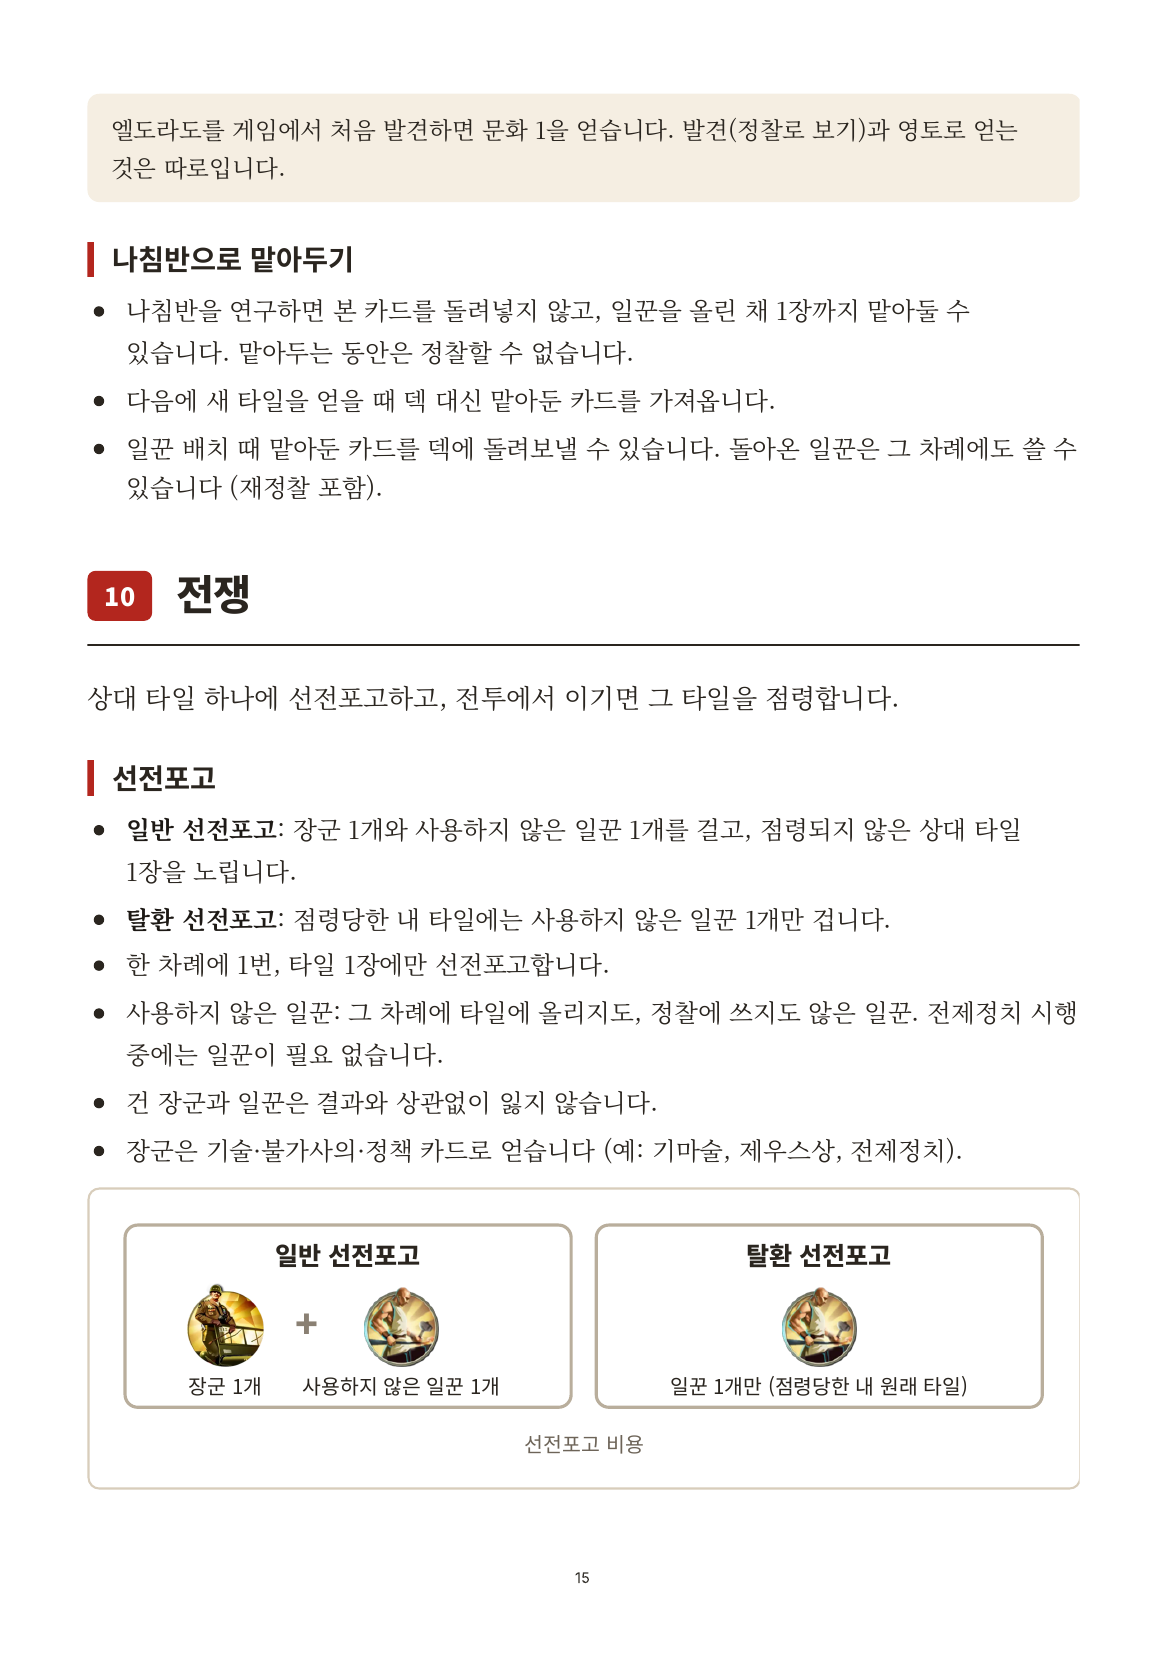
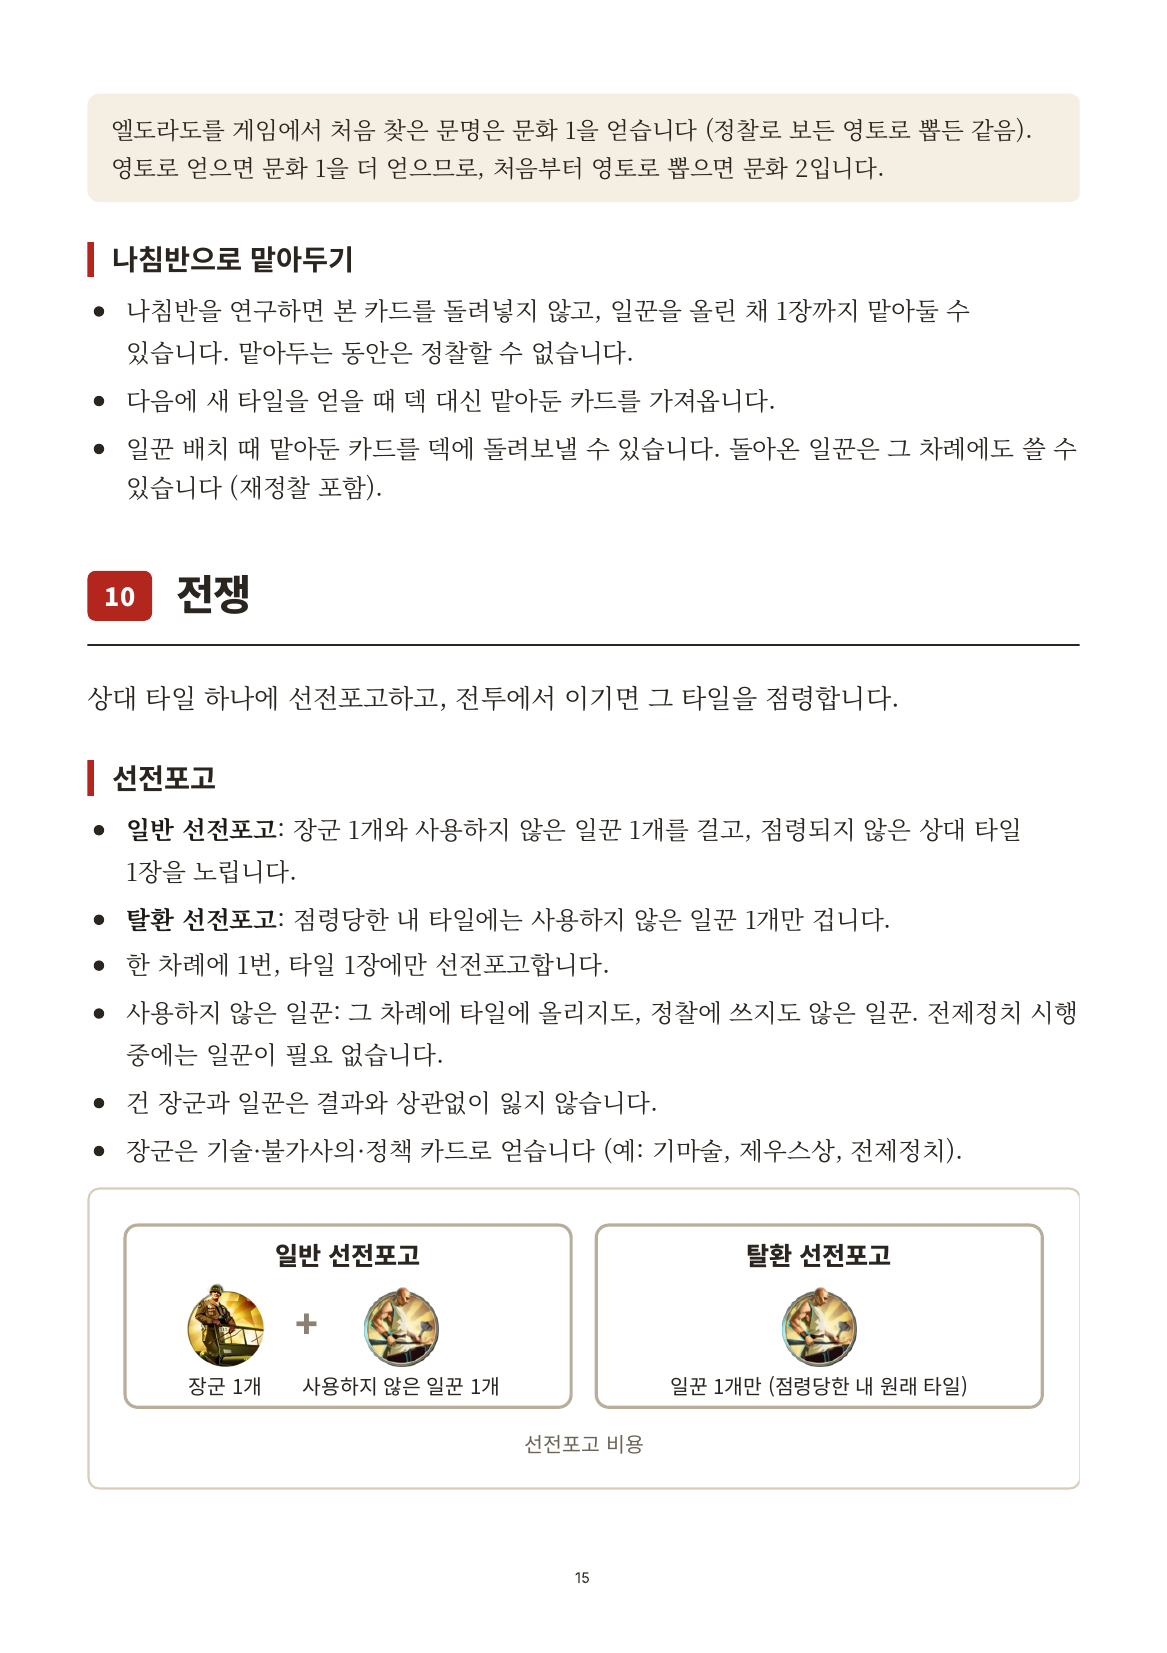
엘도라도를 바로 영토로 처음 뽑아도 발견 문화 1을 받는다 + 규칙서 정책·엘도라도 문구
- 엔진: 게임 중 문화로 엘도라도를 처음 뽑으면 영토 +1만 받던 것을 발견 +1까지 받도록 (합계 2)
- 규칙서: "정책은 한 번에 하나만", 9장 엘도라도 안내를 발견·영토 보너스를 합쳐 설명

Claude-Session: https://claude.ai/code/session_01LEwiRiXRJPjckZxHM1aEbm

Changed region(s): [[0.0925, 0.0617, 0.8638, 0.1234]]

diff --git a/src/engine/__tests__/stage3.test.ts b/src/engine/__tests__/stage3.test.ts
@@ -2,6 +2,7 @@ import { describe, expect, it } from 'vitest'
 import { SIDES, actorOf, apply, defaultTileCity, extraHoles, gainCulture, cardById, culture, ctxOf, RuleError, MILITARY_CARDS, declarationTargets, freeWorkers, tileYield, isCoastalCity, happiness } from '..'
 import type { GameState, TileCard } from '..'
 import { found, me, play, startGame, tile } from './helpers'
+import { flushPendingTiles } from '../core'
 
 const hand4 = (): TileCard[] => [tile(['평지']), tile(['숲']), tile(['언덕']), tile(['해안'])]
 const inland = (): TileCard[] => [tile(['평지']), tile(['숲']), tile(['언덕']), tile(['사막'])]
@@ -1202,6 +1203,21 @@ describe('정찰과 나침반', () => {
     s = apply(s, { type: 'scout' })
     expect(culture(me(s))).toBe(before + 1)
     expect(s.eldoradoFound).toBe(true)
+  })
+
+  it('엘도라도를 정찰 없이 바로 영토로 처음 뽑으면 발견 +1과 영토 +1을 함께 받는다 (이미 발견됐으면 영토 +1만)', () => {
+    const gain = (found: boolean) => {
+      let s = mod(start(), (c) => {
+        c.deck.unshift(eldorado())
+        c.eldoradoFound = found
+      })
+      const before = culture(me(s))
+      s = mod(s, (c) => gainCulture(c, c.players[0], 1))
+      s = mod(s, (c) => flushPendingTiles(c, c.players[0]))
+      return { gained: culture(me(s)) - before, found: s.eldoradoFound }
+    }
+    expect(gain(false)).toEqual({ gained: 3, found: true }) // 뽑은 엘도라도 1 + 발견 1 + 영토 1
+    expect(gain(true)).toEqual({ gained: 2, found: true }) // 뽑은 엘도라도 1 + 영토 1
   })
 
   it('나침반이 없으면 맡아둘 수 없고, 있으면 맡아둔 타일을 다음 문화 타일로 가져온다', () => {

diff --git a/docs/rulebook/source/part2.html b/docs/rulebook/source/part2.html
@@ -159,7 +159,7 @@
   <h3>정책 고르기</h3>
   <ul>
     <li>철학·화폐·공학·신학·라디오(보라색 테두리)를 연구하면 정책 1개를 고릅니다.</li>
-    <li>정책은 하나만 시행합니다. 새로 고르면 기존 정책은 끝납니다.</li>
+    <li>정책은 한 번에 하나만 시행합니다. 새로 고르면 기존 정책은 끝납니다.</li>
     <li>시행 중인 정책을 다시 골라 "선택할 때마다" 효과를 또 받을 수 있습니다.</li>
     <li>일부 불가사의와 기술은 정책을 바꿉니다(피라미드, 펜타곤, 루브르, 자유의 여신상, 과학이론, 레이더).</li>
   </ul>
@@ -214,7 +214,7 @@
     <li>덱 맨 위 1장을 봅니다 (한 차례에 1장).</li>
     <li>본 카드는 덱에 돌려넣고 섞습니다.</li>
   </ol>
-  <div class="note">엘도라도를 게임에서 처음 발견하면 문화 1을 얻습니다. 발견(정찰로 보기)과 영토로 얻는 것은 따로입니다.</div>
+  <div class="note">엘도라도를 게임에서 처음 찾은 문명은 문화 1을 얻습니다 (정찰로 보든 영토로 뽑든 같음). 영토로 얻으면 문화 1을 더 얻으므로, 처음부터 영토로 뽑으면 문화 2입니다.</div>
 
   <h3>나침반으로 맡아두기</h3>
   <ul>

diff --git a/src/engine/core.ts b/src/engine/core.ts
@@ -109,6 +109,11 @@ export function flushPendingTiles(s: GameState, p: Player): void {
 export function onTileGained(s: GameState, p: Player, card: TileCard, skipClaim = false): void {
   if (card.wonder) {
     const w = WONDERS[card.wonder]
+    // 엘도라도를 정찰로 보지 않고 바로 영토로 뽑아도 게임에서 처음 찾은 것이면 발견 보너스도 받는다
+    if (w.cultureOnDiscover && !s.eldoradoFound) {
+      s.eldoradoFound = true
+      gainCulture(s, p, w.cultureOnDiscover)
+    }
     if (w.cultureOnClaim && !skipClaim) gainCulture(s, p, w.cultureOnClaim)
     if (p.civId === 'spain') gainCulture(s, p, 1)
   }

diff --git a/docs/open-questions.md b/docs/open-questions.md
@@ -52,6 +52,7 @@
 | 45 | 도시 공격 때 사면에 타일이 없는 칸 | 사용자 결정: 도시의 위·아래·왼쪽·오른쪽 4칸 모두 위대한 장군으로 점령해야 하고, 타일이 없으면(아직 붙지 않은 면, 원자폭탄으로 사라진 면) 점령된 칸으로 친다. 예전의 "3칸뿐인 도시는 3칸"도 이 규칙에 들어간다. 구현 해석: 4칸 모두 타일이 없어 장군이 하나도 없으면 모두가 공동(0개)이라 누구나 선전포고할 수 있다 — **사용자 확인(2026-10-29): 지금 구현대로** |
 | 46 | 고유 유닛이 있는 문명의 기초 카드 보유 한도 | 사용자 결정: 고유 유닛이 존재하는 문명은 고유 유닛의 기초 카드를 2장까지만 보유한다 (고유 유닛 3장 + 기초 카드 2장 = 총 5장). 예: 몽골은 케식텐 3장, 기사 2장. 고유 유닛을 아직 못 만드는 시대여도 기초 카드는 2장까지 (`holdLimit`, `BASE_HOLD`). 그리스·훈족·덴마크처럼 고유 유닛이 둘이면 두 기초 카드 모두 2장. 26번의 "한 종류 6장 보유 한도"는 5장의 오기 |
 | 47 | 맡아둔 타일을 돌려보내 돌아온 정찰 일꾼을 그 차례에 쓸 수 있는지 | 사용자 결정: 돌려보낼지는 일꾼 배치(산출) 때 정하고, 돌아온 일꾼은 그 차례에도 쓸 수 있다 (재정찰·선전포고 포함). 배치가 끝난 뒤에는 돌려보낼 수 없다. 이번 차례에 정찰에 쓴 일꾼은 선전포고에 쓸 수 없다 (`declarationWorkers`, `Player.scoutReleasedRound`) |
+| 48 | 엘도라도를 정찰 없이 바로 영토로 처음 뽑을 때 | 사용자 확인: 게임에서 처음 찾은 것이면 발견 문화 1과 영토 문화 1을 모두 받는다 (합계 2). 시작 손뿐 아니라 게임 중 문화로 뽑아도 같다 (`onTileGained`) |
 
 ## 공개 범위 (설계 결정)
 - 공개: 타일·기술·정책·불가사의·군사 카드 **장수**, 로그에 남는 "무엇을 생산·승급했는지".
